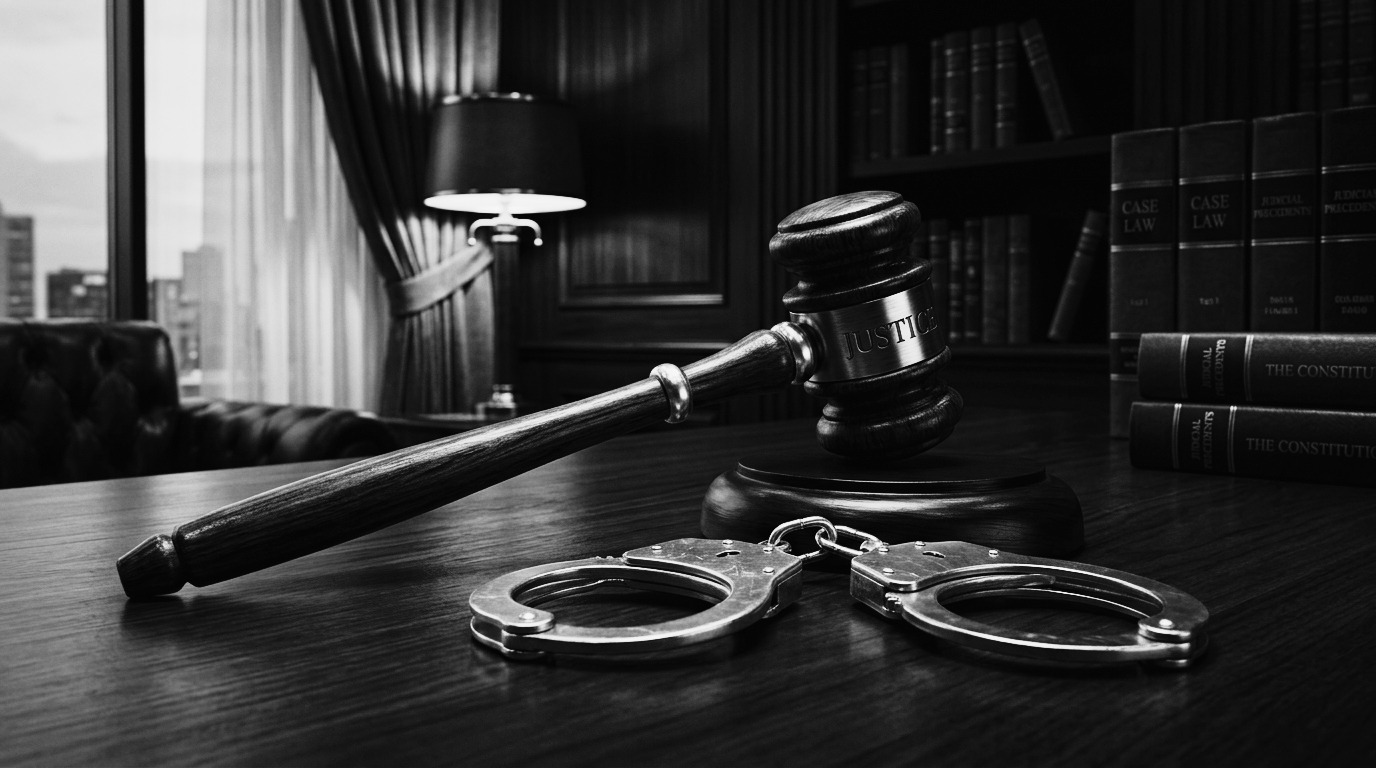
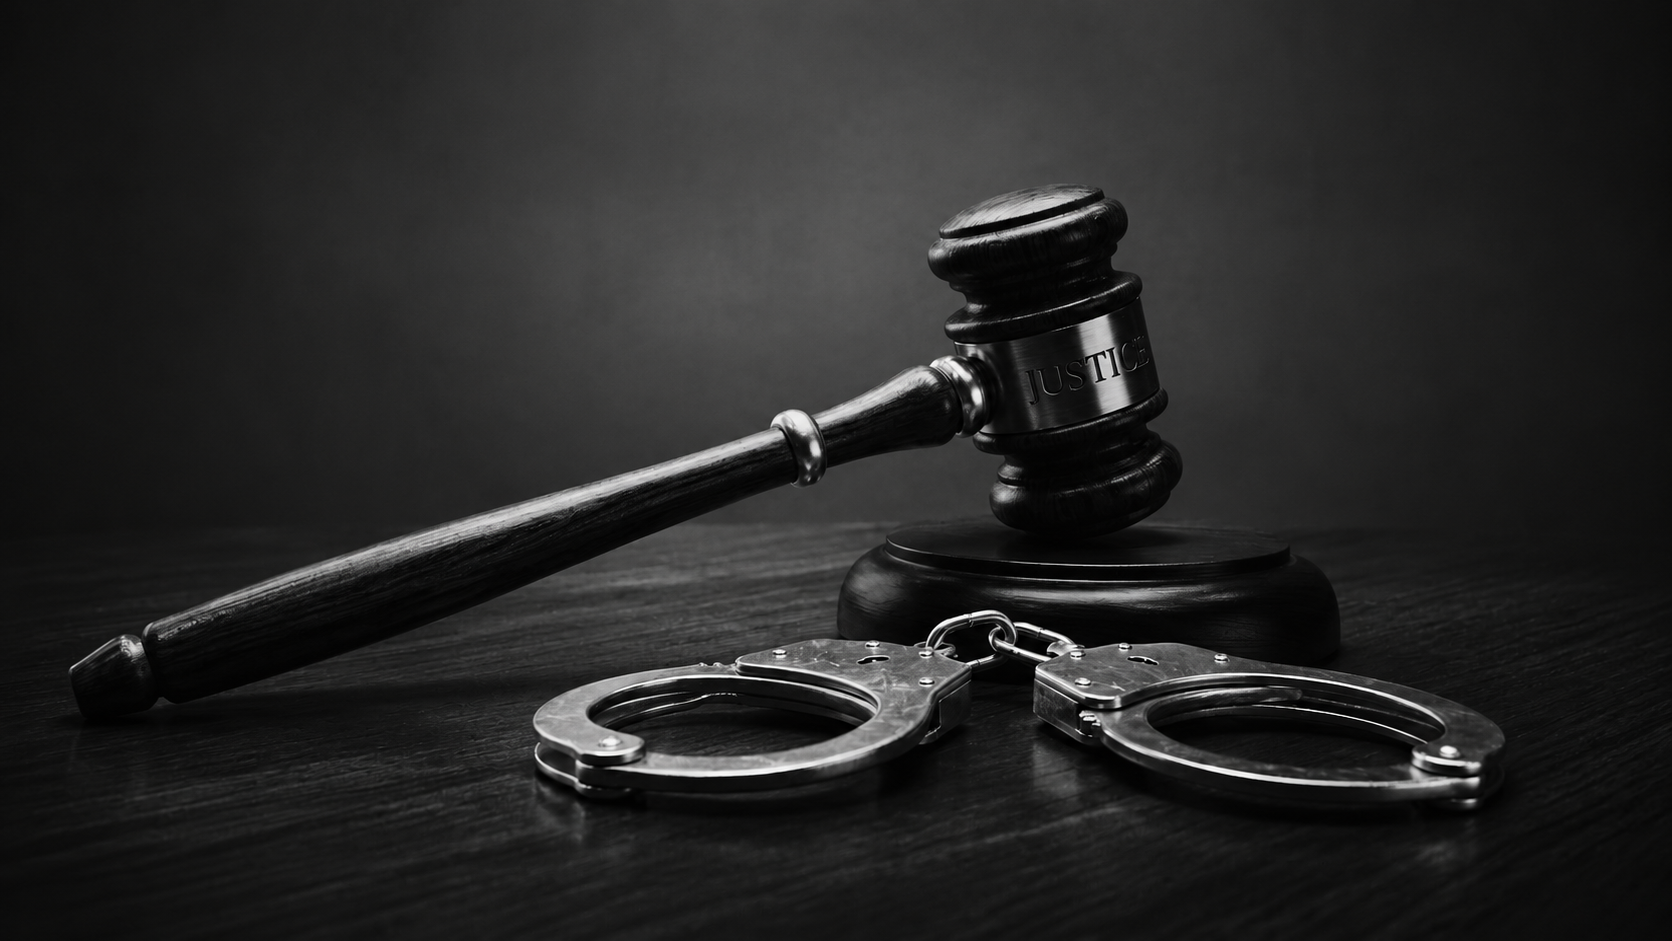
update penal1 image and refine nucleos penais sections

diff --git a/src/components/FifthFold.tsx b/src/components/FifthFold.tsx
@@ -24,7 +24,8 @@ import {
   Target,
   ChevronDown,
   ChevronUp,
-  MessageCircle
+  MessageCircle,
+  FileText
 } from 'lucide-react';
 import penal1Img from '../assets/images/penal1.jpg';
 import penal2Img from '../assets/images/penal2.jpg';
@@ -46,53 +47,35 @@ export const FifthFold: React.FC<FifthFoldProps> = ({ onOpenEmergencyModal, onSe
       id: "penal-tradicional",
       badge: "NÚCLEO 01",
       icon: Shield,
-      image: penal1Img,
-      fallbackImage: "/penal1.jpg",
+      image: "/penal1.jpg?v=20260903",
+      fallbackImage: penal1Img,
       title: "DIREITO PENAL E DEFESA CRIMINAL",
       subtitle: "Defesa de pessoas físicas",
-      desc: "Atuação na defesa da liberdade e dos direitos fundamentais em todas as fases da persecução penal.",
+      desc: "Atuação estratégica na defesa da liberdade e dos direitos fundamentais em todas as fases da persecução penal.",
       caixas: [
+        {
+          id: "trafico-drogas",
+          title: "Tráfico de Drogas e Organizações Criminosas",
+          sub: "Tráfico, associação, armas, lavagem de dinheiro e crimes conexos",
+          icon: Scale
+        },
         {
           id: "investigacoes-operacoes",
           title: "Investigações, Inquéritos e Operações Policiais",
-          sub: "Busca e apreensão, prisões em flagrante e inquéritos",
+          sub: "Busca e apreensão, prisões em flagrante, interceptações e medidas cautelares",
           icon: Search
         },
         {
           id: "defesa-tribunais",
-          title: "Atuação em Tribunais e Recursos (STJ / STF)",
-          sub: "Habeas Corpus, sustentação oral e revisões criminais",
-          icon: Gavel
+          title: "Tribunais Superiores e Recursos Criminais",
+          sub: "Habeas corpus, recursos, sustentações orais e revisões criminais (STJ / STF)",
+          icon: Landmark
         },
         {
           id: "execucao-penal",
           title: "Execução Penal e Sistema Prisional",
-          sub: "Progressão de regime, livramento e direitos do preso",
+          sub: "Progressão de regime, livramento condicional e defesa dos direitos da pessoa presa",
           icon: Lock
-        },
-        {
-          id: "crimes-honra",
-          title: "Crimes Contra a Honra e a Liberdade",
-          sub: "Calúnia, difamação, injúria e ameaças",
-          icon: ShieldAlert
-        },
-        {
-          id: "policiais-militares",
-          title: "Defesa de Policiais e Agentes de Segurança",
-          sub: "Defesa em procedimentos criminais e disciplinares",
-          icon: Shield
-        },
-        {
-          id: "crimes-transito",
-          title: "Direito Penal de Trânsito",
-          sub: "Homicídio culposo, embriaguez e infrações penais",
-          icon: Car
-        },
-        {
-          id: "estrangeiros",
-          title: "Demandas Transnacionais e Extradição",
-          sub: "Cooperação jurídica e assistência no exterior",
-          icon: Globe
         }
       ]
     },
@@ -100,8 +83,8 @@ export const FifthFold: React.FC<FifthFoldProps> = ({ onOpenEmergencyModal, onSe
       id: "penal-empresarial",
       badge: "NÚCLEO 02",
       icon: Building2,
-      image: penal2Img,
-      fallbackImage: "/penal2.jpg",
+      image: "/penal2.jpg",
+      fallbackImage: penal2Img,
       title: "DIREITO PENAL EMPRESARIAL E ECONÔMICO",
       subtitle: "Empresas, empresários e negócios",
       desc: "Proteção penal estratégica para empresas, executivos e profissionais expostos a riscos criminais corporativos.",
@@ -114,20 +97,26 @@ export const FifthFold: React.FC<FifthFoldProps> = ({ onOpenEmergencyModal, onSe
         },
         {
           id: "crimes-economicos",
-          title: "Crimes Econômicos, Financeiros e Sonegação",
-          sub: "Lavagem de dinheiro, sonegação e fraudes",
+          title: "Crimes Econômicos, Financeiros e Tributários",
+          sub: "Lavagem de dinheiro, fraudes e crimes tributários",
           icon: DollarSign
+        },
+        {
+          id: "fraudes-empresariais",
+          title: "Fraudes Empresariais e Crimes Patrimoniais",
+          sub: "Estelionato, apropriação indébita, falsidade e fraudes corporativas",
+          icon: FileText
         },
         {
           id: "crimes-digitais",
           title: "Crimes Digitais e Cibernéticos",
-          sub: "Fraudes virtuais, vazamentos e cybercrimes",
+          sub: "Fraudes virtuais, vazamentos de dados e crimes cibernéticos",
           icon: Monitor
         },
         {
           id: "gestores-publicos",
-          title: "Gestores Públicos e Licitações",
-          sub: "Crimes contra a Administração Pública e contratos",
+          title: "Crimes Contra a Administração Pública",
+          sub: "Corrupção, licitações, contratos e defesa de agentes públicos e particulares",
           icon: Landmark
         },
         {
@@ -139,20 +128,8 @@ export const FifthFold: React.FC<FifthFoldProps> = ({ onOpenEmergencyModal, onSe
         {
           id: "produtores-rurais",
           title: "Agronegócio e Setor Rural",
-          sub: "Produtores rurais e delitos ambientais",
+          sub: "Crimes ambientais, tributários, patrimoniais e empresariais",
           icon: Leaf
-        },
-        {
-          id: "influenciadores",
-          title: "Influenciadores e Criadores de Conteúdo",
-          sub: "Publicidade digital, exposição e crimes de mídia",
-          icon: PlaySquare
-        },
-        {
-          id: "crimes-eleitorais",
-          title: "Direito Eleitoral Penal",
-          sub: "Crimes em campanhas e condutas ilícitas",
-          icon: Vote
         }
       ]
     },
@@ -160,40 +137,34 @@ export const FifthFold: React.FC<FifthFoldProps> = ({ onOpenEmergencyModal, onSe
       id: "penal-medico",
       badge: "NÚCLEO 03",
       icon: Stethoscope,
-      image: penal3Img,
-      fallbackImage: "/penal3.jpg",
+      image: "/penal3.jpg",
+      fallbackImage: penal3Img,
       title: "DIREITO PENAL MÉDICO E DA SAÚDE",
       subtitle: "Profissionais e instituições de saúde",
       desc: "Defesa especializada para médicos, profissionais da saúde, clínicas, hospitais e estabelecimentos assistenciais.",
       caixas: [
         {
-          id: "saude-medicina",
-          title: "Direito Penal Médico (Médicos & Cirurgiões)",
-          sub: "Defesa em apurações de erro médico e lesão culposa",
-          icon: Stethoscope
-        },
-        {
           id: "medicos",
           title: "Profissionais da Saúde e Conselhos",
-          sub: "Dentistas, biomédicos, enfermeiros, CRM / CFM / CRO",
+          sub: "Médicos, dentistas, biomédicos, enfermeiros e demais profissionais da saúde.",
           icon: UserCheck
         },
         {
           id: "clinicas-gestao",
           title: "Clínicas, Hospitais e Laboratórios",
-          sub: "Responsabilidade penal e gestão de crises",
+          sub: "Responsabilidade penal, investigações e gestão de crises.",
           icon: Hospital
         },
         {
-          id: "defesa-paciente",
-          title: "Defesa do Paciente e Familiares",
-          sub: "Acompanhamento em ocorrências e danos graves",
-          icon: User
+          id: "responsabilizacao-penal",
+          title: "Responsabilização Penal e Processos Criminais",
+          sub: "Inquéritos, denúncias, acusações e defesa em processos criminais.",
+          icon: Shield
         },
         {
           id: "acompanhamento-juridico",
           title: "Consultoria e Prevenção Penal na Saúde",
-          sub: "Gestão preventiva de riscos na atividade médica",
+          sub: "Gestão preventiva de riscos criminais na atividade médica e assistencial.",
           icon: Shield
         }
       ]

diff --git a/src/components/NucleoModal.tsx b/src/components/NucleoModal.tsx
@@ -995,13 +995,13 @@ export const NucleoModal: React.FC<NucleoModalProps> = ({
   const configKey = (() => {
     if (!nucleoId) return 'penal-tradicional';
     if (NUCLEOS_CONFIG[nucleoId]) return nucleoId;
-    if (['investigacoes-operacoes', 'defesa-tribunais', 'execucao-penal', 'policiais-militares', 'crimes-transito', 'crimes-honra', 'estrangeiros'].includes(nucleoId)) {
+    if (['investigacoes-operacoes', 'defesa-tribunais', 'execucao-penal', 'trafico-drogas', 'policiais-militares', 'crimes-transito', 'crimes-honra', 'estrangeiros'].includes(nucleoId)) {
       return 'penal-tradicional';
     }
-    if (['empresarios', 'crimes-economicos', 'crimes-digitais', 'gestores-publicos', 'instituicoes-financeiras', 'crimes-eleitorais', 'produtores-rurais', 'influenciadores'].includes(nucleoId)) {
+    if (['empresarios', 'crimes-economicos', 'fraudes-empresariais', 'crimes-digitais', 'gestores-publicos', 'instituicoes-financeiras', 'crimes-eleitorais', 'produtores-rurais', 'influenciadores'].includes(nucleoId)) {
       return 'penal-empresarial';
     }
-    if (['saude-medicina', 'defesa-paciente', 'clinicas-gestao', 'medicos', 'pacientes'].includes(nucleoId)) {
+    if (['saude-medicina', 'defesa-paciente', 'clinicas-gestao', 'medicos', 'pacientes', 'responsabilizacao-penal', 'acompanhamento-juridico'].includes(nucleoId)) {
       return 'penal-medico';
     }
     return 'penal-tradicional';
